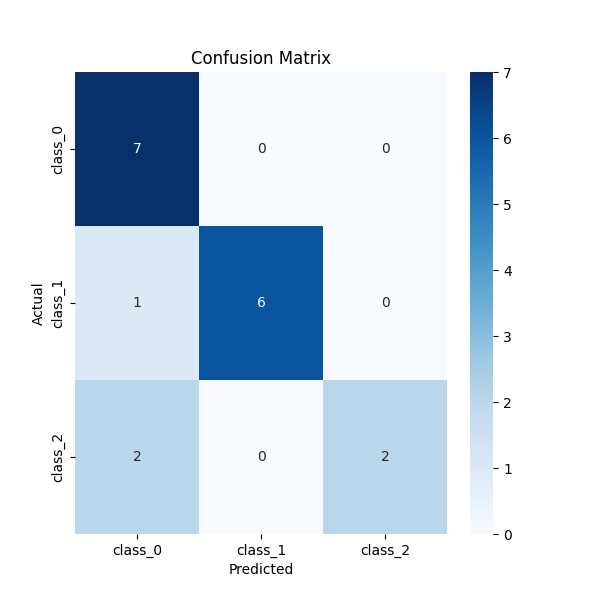
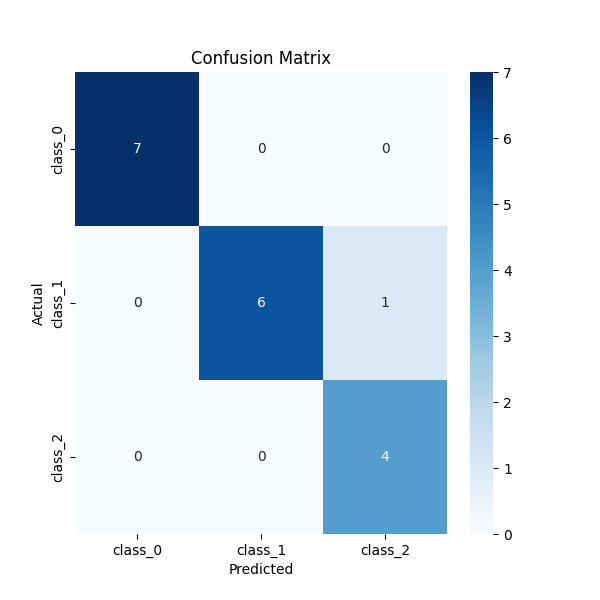
Added to the MLFlow Server using DagsHub

Changed region(s): [[0.54, 0.36, 0.75, 0.9], [0.12, 0.36, 0.33, 0.9]]

diff --git a/src/file2.py b/src/file2.py
@@ -1,0 +1,83 @@
+import dagshub
+import mlflow
+import mlflow.sklearn
+from sklearn.datasets import load_wine
+from sklearn.ensemble import RandomForestClassifier
+from sklearn.model_selection import train_test_split
+from sklearn.metrics import accuracy_score, confusion_matrix
+import matplotlib.pyplot as plt
+import seaborn as sns
+
+#mlflow.set_tracking_uri("http://127.0.0.1:5000")
+  
+mlflow.set_tracking_uri("https://dagshub.com/TheHashiramaSenju/MLOPsExperimentsPractice.mlflow")
+dagshub.init(repo_owner='TheHashiramaSenju', repo_name='MLOPsExperimentsPractice', mlflow=True)
+
+
+
+# Load Wine dataset
+wine = load_wine()
+X = wine.data
+y = wine.target
+
+# Train test split
+X_train, X_test, y_train, y_test = train_test_split(X, y, test_size=0.10, random_state=42)
+
+# Define the params for RF model
+max_depth = 100
+n_estimators = 20
+
+# Mention your experiment below
+mlflow.set_experiment('MLOPs Experiment 1')
+
+with mlflow.start_run(): #inside we can also have the "experiment_id = " parameter with which we can actually append our outputs instead of the top one
+    rf = RandomForestClassifier(max_depth=max_depth, n_estimators=n_estimators, random_state=42)
+    rf.fit(X_train, y_train)
+
+    y_pred = rf.predict(X_test)
+    accuracy = accuracy_score(y_test, y_pred)
+
+    mlflow.log_metric('accuracy', accuracy)
+    mlflow.log_param('max_depth', max_depth)
+    mlflow.log_param('n_estimators', n_estimators)
+
+    # Creating a confusion matrix plot
+    '''cm = confusion_matrix(y_test, y_pred)
+    plt.figure(figsize=(6,6))
+    sns.heatmap(cm, annot=True, fmt='d', cmap='Blues', xticklabels=wine.target_names, yticklabels=wine.target_names)
+    plt.ylabel('Actual')
+    plt.xlabel('Predicted')
+    plt.title('Confusion Matrix')
+
+    # save plot
+    plt.savefig("Confusion-matrix.png")
+
+    # log artifacts using mlflow
+    mlflow.log_artifact("Confusion-matrix.png")
+    mlflow.log_artifact(__file__)
+
+    # tags
+    mlflow.set_tags({"Author": 'Vikash', "Project": "Wine Classification"})
+
+    # Log the model
+    mlflow.sklearn.log_model(rf, "Random-Forest-Model")'''
+    
+    cm = confusion_matrix(y_test, y_pred)
+    plt.figure(figsize=(6,6))
+    sns.heatmap(cm, annot=True, fmt = 'd', cmap='Blues', xticklabels=wine.target_names, yticklabels=wine.target_names)
+    plt.ylabel('Actual')
+    plt.xlabel('Predicted')
+    plt.title("Confusion Matrix")
+    
+    plt.savefig("Confusion_matrix.png")
+    
+    mlflow.log_artifact("Confusion_matrix.png")
+    mlflow.log_artifact(__file__) #logging the current file
+    #setting tags - tags can be set like dictionaries also
+    #mlflow.set_tags({"Author" : "Darshan", "Project" : "Wine classifications"})
+    mlflow.set_tag("Author", "Darshan")
+    
+    #now logging the model
+    mlflow.sklearn.log_model(rf, "Random-Forest-Model")
+    
+    print(accuracy)
